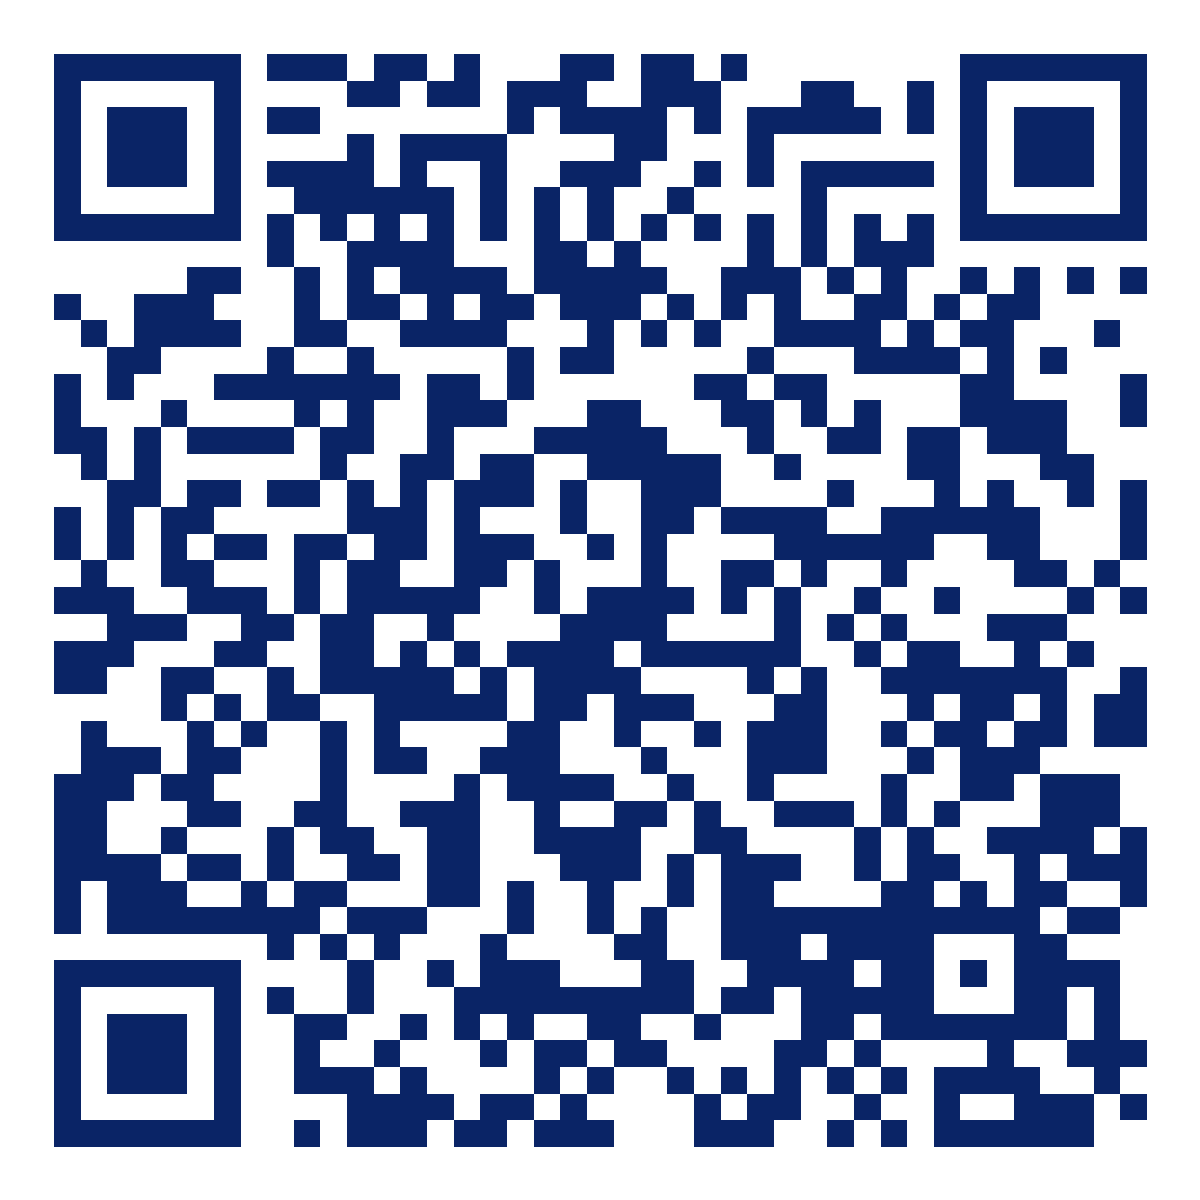
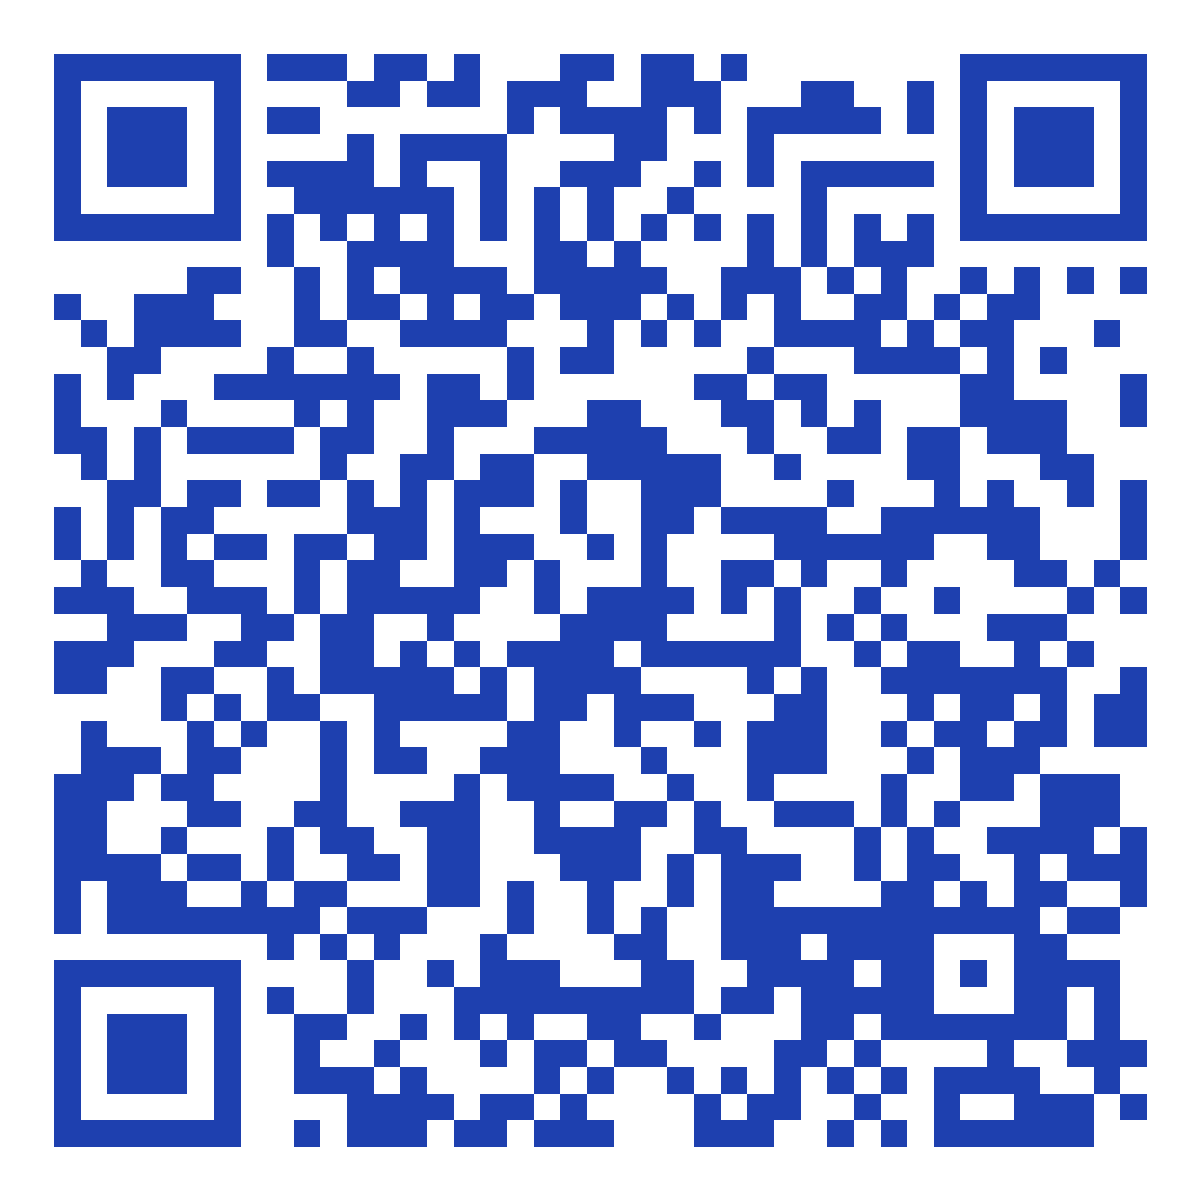
Make the procedure name the biggest thing on the page
Stacks it: Scan the QR code / to learn all about your / NUCLEAR STRESS
TEST, with the name set largest in dark blue. Same layout carries a CT
scan or anything else without redrawing anything.

Softens the QR itself from near-black to a blue. It read as ominous,
which is the wrong first impression for a nervous patient. Verified by
decoding the new image - it reads correctly at 8.7:1 contrast, where a
scanner needs about 3:1.

Capitalises AI Assistant.

diff --git a/public/qr/stress-test-sample.html b/public/qr/stress-test-sample.html
@@ -14,7 +14,14 @@
     display:flex; flex-direction:column; align-items:center; text-align:center;
   }
   /* Sized for people reading it without their glasses on. */
-  h1{ font-size:30px; line-height:1.3; letter-spacing:-.015em; margin:0 0 34px; max-width:460px; }
+  h1{ font-size:27px; line-height:1.25; letter-spacing:-.015em; margin:0 0 4px; }
+  .toLearn{ font-size:19px; color:var(--muted); margin:0 0 10px; }
+  /* The name of the procedure is always the biggest thing on the page, so the
+     same layout carries a CT scan or anything else without redrawing it. */
+  .testName{
+    font-size:38px; line-height:1.1; font-weight:800; letter-spacing:.005em;
+    text-transform:uppercase; color:var(--navy); margin:0 0 34px; max-width:440px;
+  }
   .qr{ width:270px; height:270px; display:block; }
   h2{ font-size:25px; line-height:1.35; margin:36px 0 30px; max-width:430px; letter-spacing:-.01em; }
   a.try{
@@ -37,11 +44,13 @@
 </head>
 <body>
 
-<h1>Scan the QR code to learn all about your nuclear stress test.</h1>
+<h1>Scan the QR code</h1>
+<p class="toLearn">to learn all about your</p>
+<p class="testName">Nuclear Stress Test</p>
 
 <img class="qr" src="/qr/stress-test-sample.png" alt="QR code — scan to ask questions about your nuclear stress test">
 
-<h2>Let our AI assistant help explain the test to you.</h2>
+<h2>Let our AI Assistant help explain the test to you.</h2>
 
 <a class="try" href="/stress-test.html">Try it now</a>
 
